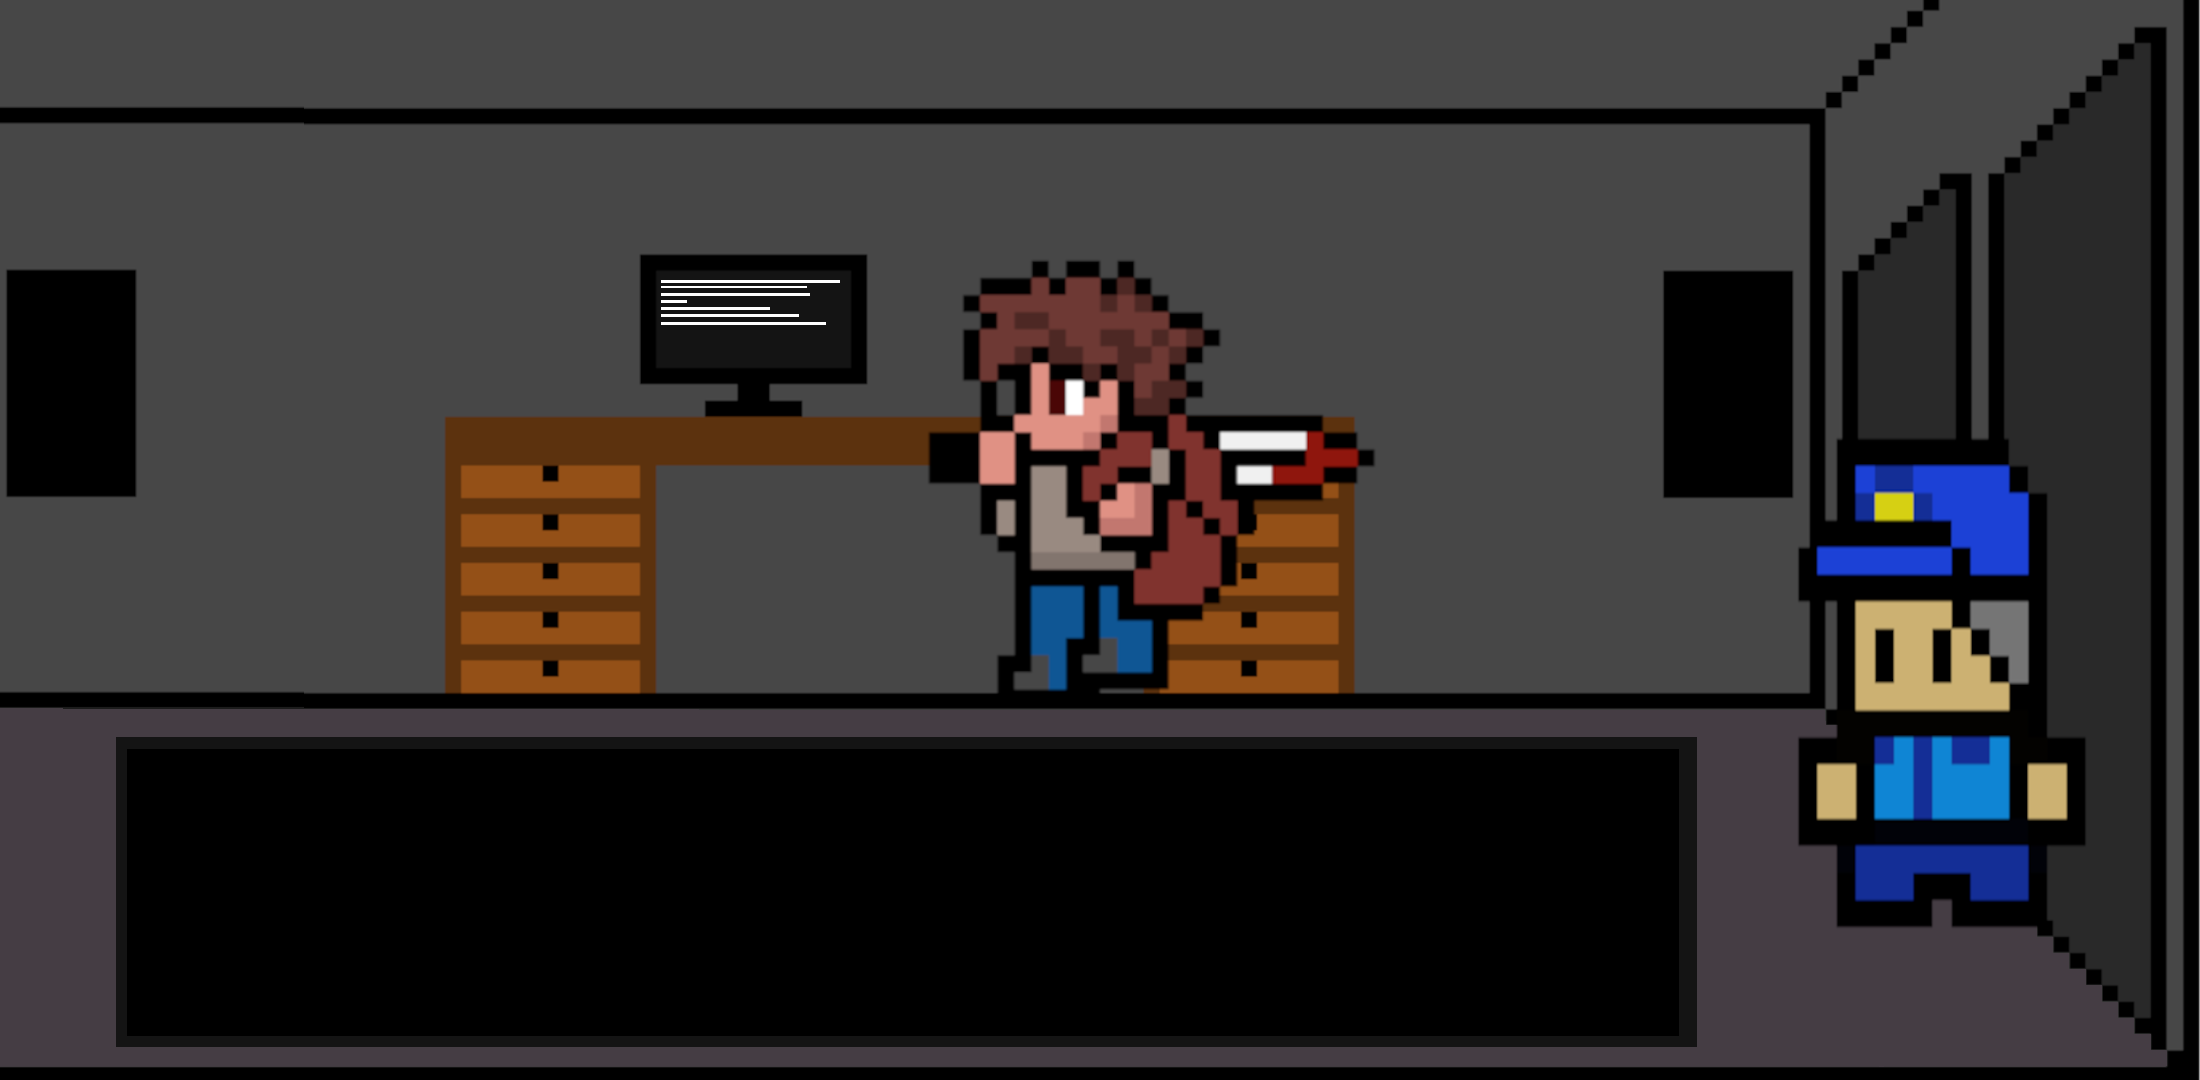
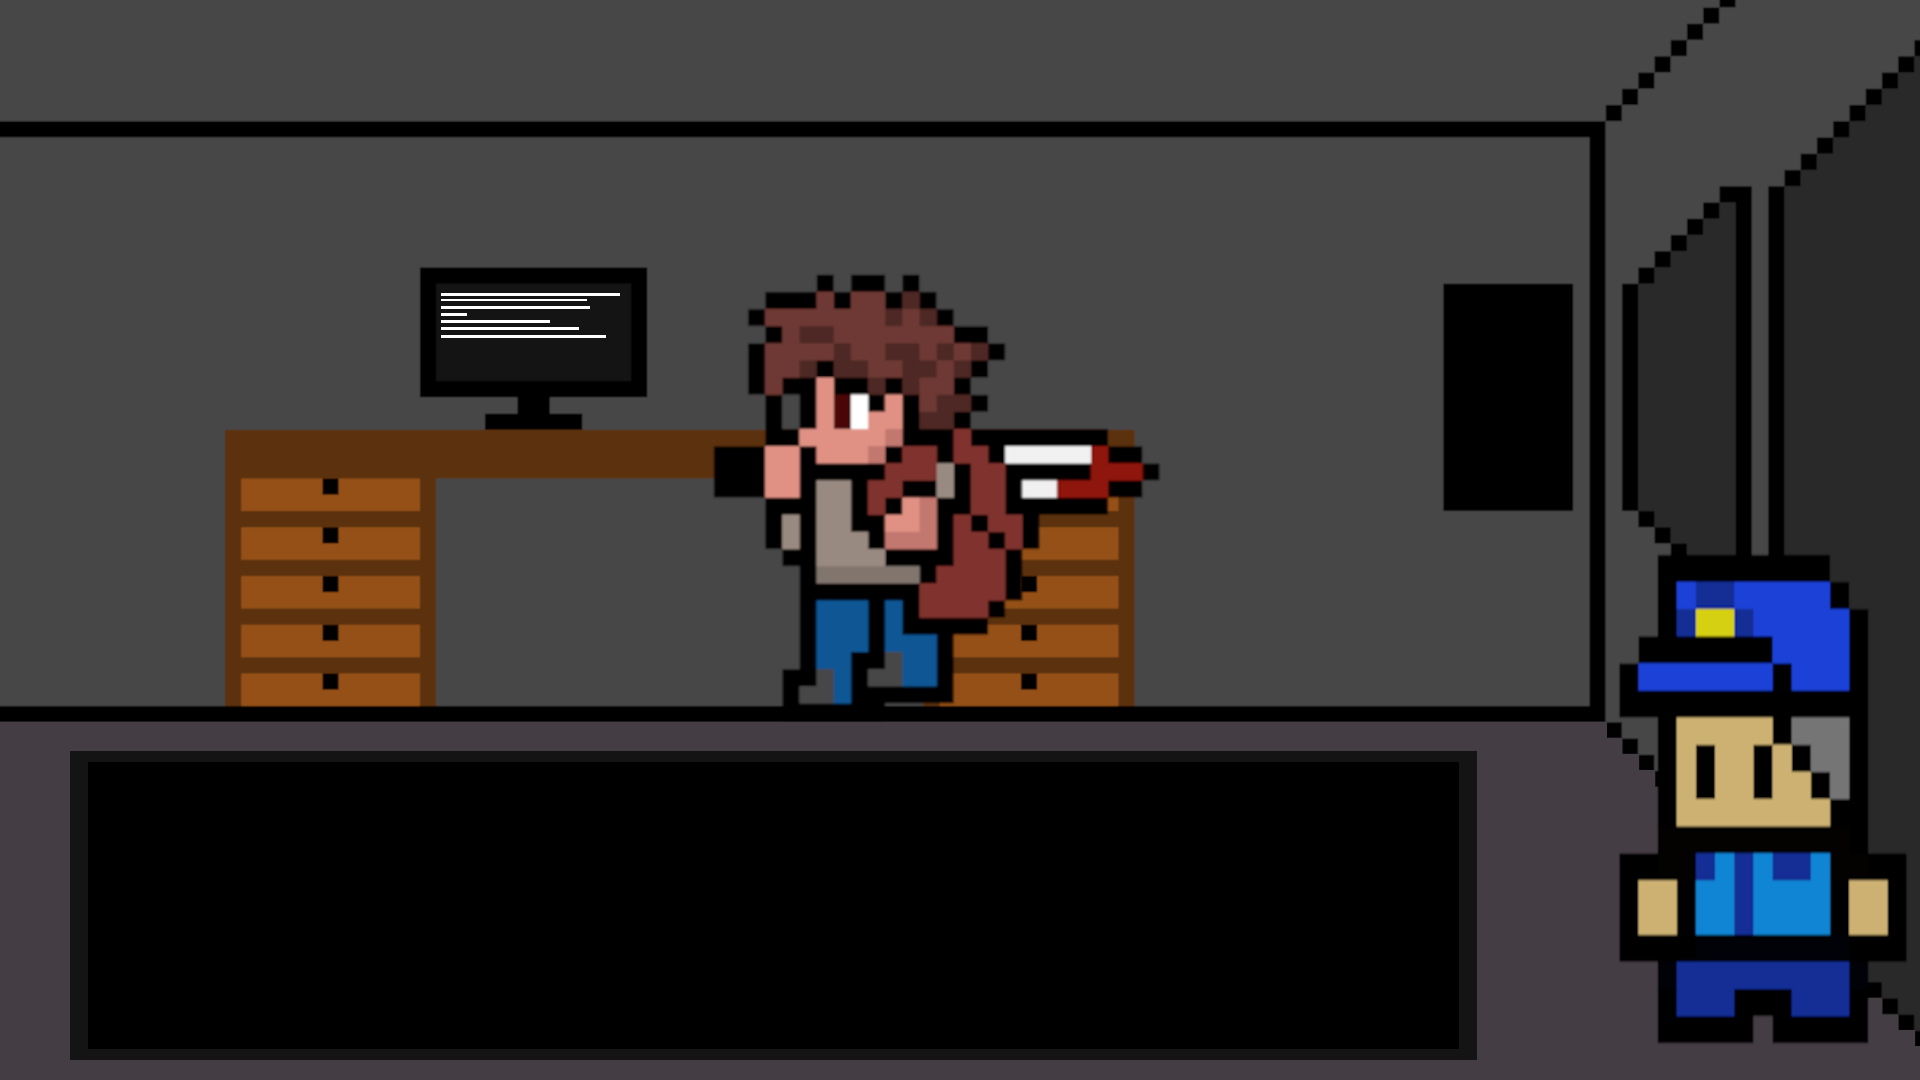
Finished a big part of the base_game

diff --git a/pages/base_game/caught/caught.html b/pages/base_game/caught/caught.html
@@ -1,0 +1,26 @@
+<!DOCTYPE html>
+<html lang="en">
+<head>
+    <meta charset="UTF-8">
+    <meta http-equiv="X-UA-Compatible" content="IE=edge">
+    <meta name="viewport" content="width=device-width, initial-scale=1.0">
+    <link rel="stylesheet" href="../../../style.css">
+    <link rel="stylesheet" href="./caught.css">
+    <title>Security area</title>
+</head>
+<body>
+    <div id="text">
+        <h1>They caught you!</h1>
+        <p>You got caught! What story are you <br>
+        planning to tell the guard? <br>
+        What ever Story you are selecting, <br>
+        hurry up!</p>
+    </div>
+    <div id="button">
+        <button id="button1" onclick="window.location.href=''">I'm a security <br> guard</button>
+        <button id="button2" onclick="window.location.href='../Sicherheitsraum-1/Sicherheitsraum-1.html'">I'm a construction <br> worker</button>
+    </div>
+</body>
+</html>
+
+<a href="../Sicherheitsraum-1/Sicherheitsraum-1.html"></a>

diff --git a/pages/base_game/Sicherheitsraum-1/Sicherheitsraum-1.html b/pages/base_game/Sicherheitsraum-1/Sicherheitsraum-1.html
@@ -1,0 +1,22 @@
+<!DOCTYPE html>
+<html lang="en">
+<head>
+    <meta charset="UTF-8">
+    <meta http-equiv="X-UA-Compatible" content="IE=edge">
+    <meta name="viewport" content="width=device-width, initial-scale=1.0">
+    <link rel="stylesheet" href="../../../style.css">
+    <link rel="stylesheet" href="./Sicherheitsraum-1.css">
+    <title>Security area</title>
+</head>
+<body>
+    <div class="text">
+        <p>Another amazing plan! <br>
+            What was your Idea aboout coming here?! Hurry up,<br>
+            and tell me, what is your plan to get out of here?</p>
+    </div>
+    <div id="button">
+        <button id="button1" onclick="window.location.href='../Sicherheitsraum-2/Sicherheitsraum-2.html'">I will wait</button>
+        <button id="button2" onclick="window.location.href='../caught/caught-.html'">Ask him to go out</button>
+    </div>
+</body>
+</html>

diff --git a/pages/base_game/caught/caught-.html b/pages/base_game/caught/caught-.html
@@ -1,0 +1,26 @@
+<!DOCTYPE html>
+<html lang="en">
+<head>
+    <meta charset="UTF-8">
+    <meta http-equiv="X-UA-Compatible" content="IE=edge">
+    <meta name="viewport" content="width=device-width, initial-scale=1.0">
+    <link rel="stylesheet" href="../../../style.css">
+    <link rel="stylesheet" href="./caught-.css">
+    <title>cmd.exe/decline</title>
+    <script src="../../../global.js"></script>
+</head>
+<body>
+	<div id="center">
+		<h1>THE END</h1>
+		<p>
+			We are sorry, but you got caught!<br>
+			The security already had a suspicion against you,<br>
+            after coming so far into the building as a "worker". <br>
+			<br>
+			But now you can't get those $1.000.000.000...<br>
+			You didn't think this through, did you?
+		</p>
+		<button onclick="gotoUrl('../../game_start/game_start', '')">BACK TO START</button>
+	</div>
+</body>
+</html>

diff --git a/pages/base_game/Sicherheitsraum-2/Sicherheitsraum-2.html b/pages/base_game/Sicherheitsraum-2/Sicherheitsraum-2.html
@@ -1,0 +1,21 @@
+<!DOCTYPE html>
+<html lang="en">
+<head>
+    <meta charset="UTF-8">
+    <meta http-equiv="X-UA-Compatible" content="IE=edge">
+    <meta name="viewport" content="width=device-width, initial-scale=1.0">
+    <link rel="stylesheet" href="../../../style.css">
+    <link rel="stylesheet" href="./Sicherheitsraum-2.css">
+    <title>Security area</title>
+</head>
+<body>
+    <div id="text">
+        <p>There it is, your chance! Take it, to get one <br>
+        step closer to the $1.000.000! What do you want to do?</p>
+    </div>
+    <div id="button">
+        <button id="button1" onclick="window.location.href=''">Take the chance, and go!</button>
+        <button id="button2" onclick="window.location.href='../Sicherheitsraum3/Sicherheitsraum3.html'">I will wait</button>
+    </div>
+</body>
+</html>

diff --git a/pages/base_game/hallway/hallway.html b/pages/base_game/hallway/hallway.html
@@ -1,0 +1,19 @@
+<!DOCTYPE html>
+<html lang="en">
+<head>
+    <meta charset="UTF-8">
+    <meta http-equiv="X-UA-Compatible" content="IE=edge">
+    <meta name="viewport" content="width=device-width, initial-scale=1.0">
+    <link rel="stylesheet" href="../../../style.css">
+    <link rel="stylesheet" href="./hallway.css">
+    <script src="../../../global.js"></script>
+    <script src="../../../globalobj.js"></script>
+    <script src="./hallway.js"></script>
+    <title>Hallway</title>
+</head>
+<body>
+	<div id="objDiv">
+		<img id="chara" class="obj mirrorX" src="../../../images/chara.png" style="left: 80vh; top: 79vh;">
+	</div>
+</body>
+</html>

diff --git a/pages/base_game/caught/caught.css b/pages/base_game/caught/caught.css
@@ -1,0 +1,39 @@
+body {
+    background-image: url(../../../images/backgrounds/caught.png);
+    min-height: 100vh;
+}
+
+h1 {
+    color: #00ff00;
+}
+
+p {
+    color: #00ff00;
+}
+
+#text {
+    margin-top: 24vh;
+    margin-right: 57vh;
+}
+
+#button {
+    margin-right: 57vh;
+}
+
+button {
+    font-size: 3vh;
+	margin-left: 4vh;
+	margin-right: 4vh;
+	transition: .15s;
+	background-color: black;
+	color: #00ff00;
+	border-width: 0.3vh;
+	border-color: #00ff00;
+	padding: 1.5vh;
+	border-radius: 3vh;
+}
+
+#button1 {
+    padding-left: 4vh;
+    padding-right: 4vh;
+}

diff --git a/pages/base_game/Sicherheitsraum-1/Sicherheitsraum-1.css b/pages/base_game/Sicherheitsraum-1/Sicherheitsraum-1.css
@@ -1,11 +1,11 @@
 body {
-    background-image: url(../../../images/backgrounds/Sicherheitsraum2.png);
+    background-image: url(../../../images/backgrounds/Sicherheitsraum-1.png);
     min-height: 100vh;
 }
 
-#text p {
+.text p {
     font-size: 3vh;
-    margin-top: 75vh;
+    margin-top: 73vh;
     margin-right: 30vh;
     color: #00ff00;
 }
@@ -27,7 +27,7 @@ button {
     margin-right: 30vh;
 }
 
-#button2 {
+#button1 {
     padding-left: 70px;
     padding-right: 70px;
 }

diff --git a/pages/base_game/Sicher/sicher.html b/pages/base_game/Sicher/sicher.html
@@ -19,7 +19,7 @@
     And don't forget the $1.000.000! Thinking about money <br>
     can save your live...</p>
     <div id="button">
-		<button id="button1" onclick="gotoUrl('', '')">I don't want to <br> do this anymore</button>
+		<button id="button1" onclick="gotoUrl('../caught/caught', '')">I don't want to <br> do this anymore</button>
 		<button id="button2" onclick="gotoUrl('', '')">Let's get the <br> money!</button>
 	</div>
 </body>

diff --git a/pages/base_game/Sicherheitsraum1/Sicherheitsraum1.html b/pages/base_game/Sicherheitsraum1/Sicherheitsraum1.html
@@ -16,7 +16,7 @@
     </div>
     <div id="button">
         <button id="button1" onclick="window.location.href='../Sicherheitsraum2/Sicherheitsraum2.html'">I will wait</button>
-        <button id="button2" onclick="window.location.href=''">Ask him to go out</button>
+        <button id="button2" onclick="window.location.href='../hallway/hallway.html'">Ask him to go out</button>
     </div>
 </body>
 </html>

diff --git a/pages/base_game/caught/caught-.css b/pages/base_game/caught/caught-.css
@@ -1,0 +1,20 @@
+h1 {
+	font-size: 20vh;
+	margin: -5vh 0 0 0;
+	color: #00ff00;
+}
+
+p {
+	margin: 10vh 0;
+	color: #00ff00;
+}
+
+button {
+	font-size: 5vh;
+	background-color: black;
+	color: #00ff00;
+	border-width: 0.3vh;
+	border-color: #00ff00;
+	padding: 1.5vh;
+	border-radius: 3vh;
+}

diff --git a/pages/base_game/Sicherheitsraum-2/Sicherheitsraum-2.css b/pages/base_game/Sicherheitsraum-2/Sicherheitsraum-2.css
@@ -1,5 +1,5 @@
 body {
-    background-image: url(../../../images/backgrounds/Sicherheitsraum2.png);
+    background-image: url(../../../images/backgrounds/Sicherheitsraum-2.png);
     min-height: 100vh;
 }
 

diff --git a/pages/base_game/hallway/hallway.js b/pages/base_game/hallway/hallway.js
@@ -1,0 +1,7 @@
+hasGravity = true;
+walls = [[-200,80,200,100], [81,0,100,100], [-100,0,-80,100]];
+triggers = [[-100,0,-79,100]];
+
+function onTrigger(trigIndex) {
+	gotoUrl("../caught/caught", "");
+}
